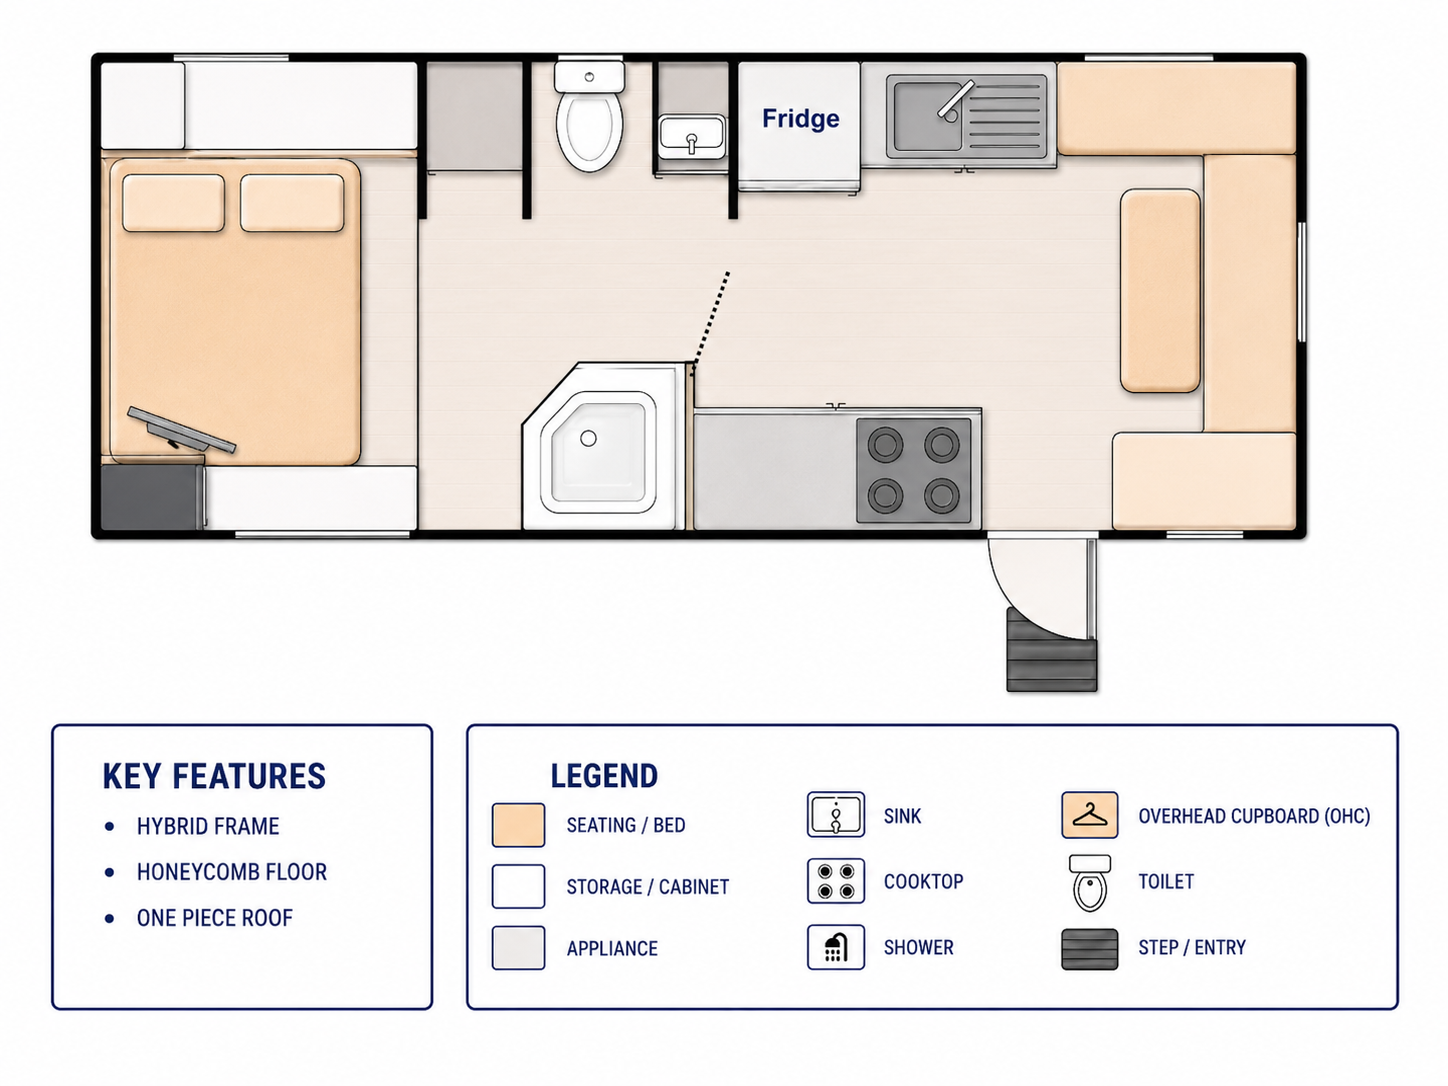
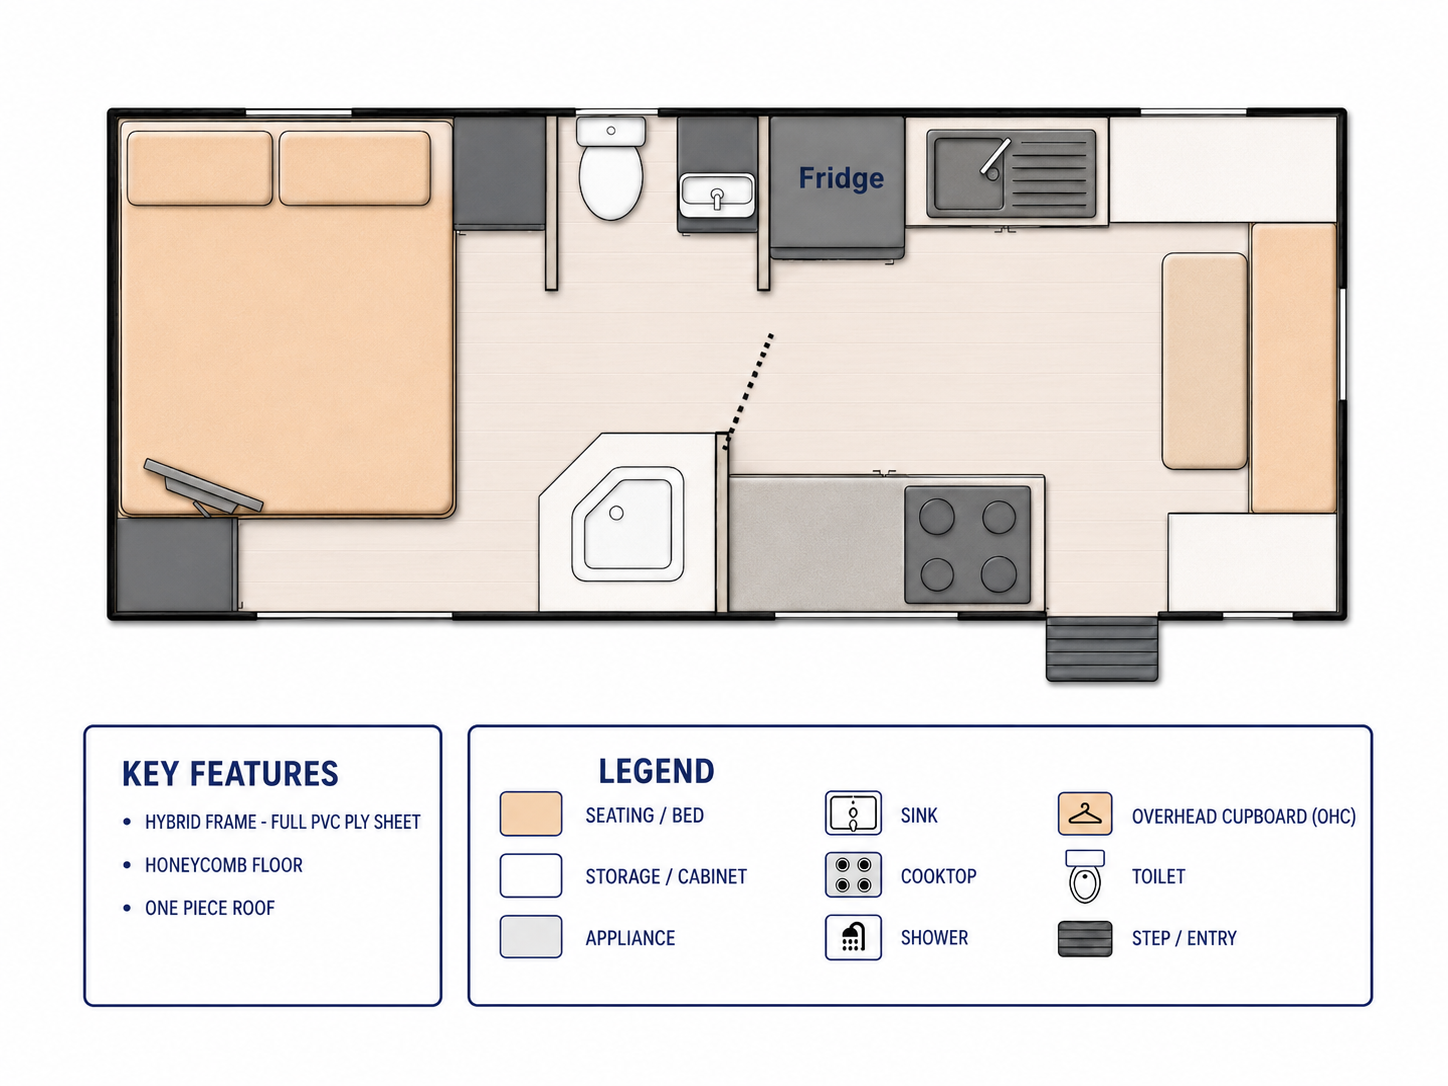
feat(models): refresh X-Master floor plans, tidy bed options
Add dedicated X-Master floor plan drawings for every size (17'6-22'6),
replacing generic placeholders, and collapse the 22'6 queen/bunk split
into a single layout. Also drop the redundant Twin Single Beds option
from the Mirage 21'6.

diff --git a/src/content/models.js b/src/content/models.js
@@ -467,11 +467,10 @@ export const models = [
       { build: 'standard', size: '17-6', lounge: null, bed: null, image: '/images/blueprints/x-master-standard-17-6.png' },
       { build: 'standard', size: '18-6', lounge: null, bed: null, image: '/images/blueprints/x-master-standard-18-6.png' },
       { build: 'standard', size: '19-6', lounge: null, bed: null, image: '/images/blueprints/x-master-standard-19-6.png' },
-      { build: 'standard', size: '20-6', lounge: null, bed: null, image: '/images/blueprints/generic-20-6.png' },
-      { build: 'standard', size: '21-6', lounge: null, bed: 'queen', image: '/images/blueprints/generic-21-6.png' },
-      { build: 'standard', size: '21-6', lounge: null, bed: 'bunk', image: '/images/blueprints/generic-21-6.png' },
-      { build: 'standard', size: '22-6', lounge: null, bed: 'queen', image: '/images/blueprints/generic-22-6.png' },
-      { build: 'standard', size: '22-6', lounge: null, bed: 'bunk', image: '/images/blueprints/generic-22-6.png' },
+      { build: 'standard', size: '20-6', lounge: null, bed: null, image: '/images/blueprints/x-master-standard-20-6.png' },
+      { build: 'standard', size: '21-6', lounge: null, bed: 'queen', image: '/images/blueprints/x-master-standard-21-6.png' },
+      { build: 'standard', size: '21-6', lounge: null, bed: 'bunk', image: '/images/blueprints/x-master-standard-21-6-bunk.png' },
+      { build: 'standard', size: '22-6', lounge: null, bed: null, image: '/images/blueprints/x-master-standard-22-6.png' },
       { build: 'slideout', size: '22-6', lounge: null, bed: null, image: '/images/blueprints/x-master-slideout-floorplan.png' },
     ],
   },
@@ -542,17 +541,15 @@ export const models = [
       { key: 'slideout', label: 'Slide-Out', badge: "22'6 size only", blurb: 'A roadside wall that extrudes at camp for a markedly wider lounge.', blueprint: '/images/blueprints/x-master-slideout.webp', available: true },
     ],
     // Floor plans drive the configurator. The lounge toggle (Cafe vs Twin
-    // Recliner) and the bed toggle (Queen vs Twin Single) only appear on the
-    // sizes that list more than one option; smaller sizes carry a single plan.
+    // Recliner) only appears on the sizes that list more than one option;
+    // smaller sizes carry a single plan.
     floorPlans: [
       { build: 'standard', size: '18-6', lounge: null, bed: null, image: '/images/blueprints/mirage-18-6.png' },
       { build: 'standard', size: '19-6', lounge: null, bed: null, image: '/images/blueprints/mirage-19-6.png' },
       { build: 'standard', size: '20-6', lounge: 'cafe', bed: null, image: '/images/blueprints/mirage-20-6.png' },
       { build: 'standard', size: '20-6', lounge: 'recliner', bed: null, image: '/images/blueprints/mirage-20-6-recliner.png' },
-      { build: 'standard', size: '21-6', lounge: 'cafe', bed: 'queen', image: '/images/blueprints/mirage-21-6-cafe-queen.png' },
-      { build: 'standard', size: '21-6', lounge: 'cafe', bed: 'single', image: '/images/blueprints/generic-21-6.png' },
-      { build: 'standard', size: '21-6', lounge: 'recliner', bed: 'queen', image: '/images/blueprints/mirage-recliners.png' },
-      { build: 'standard', size: '21-6', lounge: 'recliner', bed: 'single', image: '/images/blueprints/mirage-recliners.png' },
+      { build: 'standard', size: '21-6', lounge: 'cafe', bed: null, image: '/images/blueprints/mirage-21-6-cafe-queen.png' },
+      { build: 'standard', size: '21-6', lounge: 'recliner', bed: null, image: '/images/blueprints/mirage-recliners.png' },
       { build: 'standard', size: '22-6', lounge: 'cafe', bed: null, image: '/images/blueprints/generic-22-6.png' },
       { build: 'standard', size: '22-6', lounge: 'recliner', bed: null, image: '/images/blueprints/mirage-recliners.png' },
       { build: 'slideout', size: '22-6', lounge: null, bed: null, image: '/images/blueprints/mirage-22-6-slideout.png' },

diff --git a/CHANGELOG.md b/CHANGELOG.md
@@ -145,3 +145,6 @@
 - Added a dedicated floor plan drawing for the Dune 22'6 Bunks layout — choosing Bunks at that size now shows its own plan instead of the generic one.
 - Added dedicated floor plan drawings across the Mirage range — the 18'6, 19'6, the 20'6 Cafe Style and Twin Recliner layouts, and the 22'6 Slide-Out now each show their own plan instead of a generic one.
 - Added a dedicated floor plan drawing for the Mirage 21'6 Cafe Style Lounge with Queen Bed — that layout now shows its own plan instead of a generic one.
+- Removed the Twin Single Beds option from the Mirage 21'6 — that size now offers the Cafe Style and Twin Recliner lounge choices only, both with a queen bed.
+- Refreshed the X-Master floor plan drawings and added dedicated plans for every size — the 17'6, 18'6, 19'6, 20'6, both 21'6 layouts, and the 22'6 now each show their own plan instead of a generic one.
+- Removed the separate bed choices on the X-Master 22'6 — that size now shows a single layout.